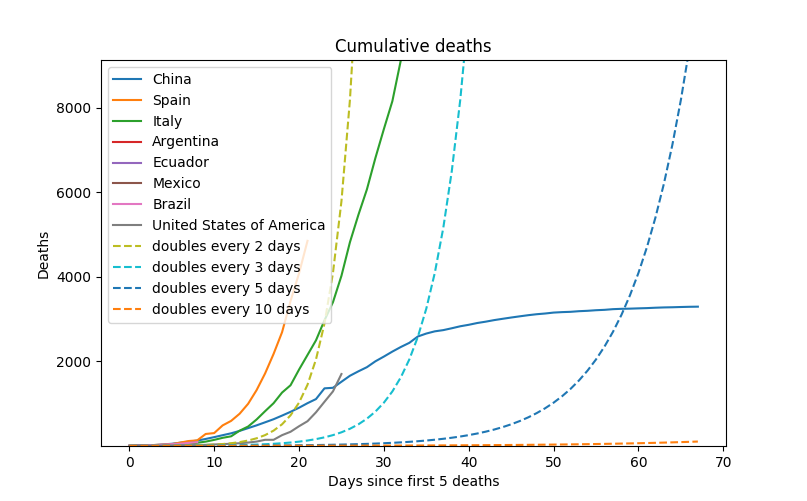
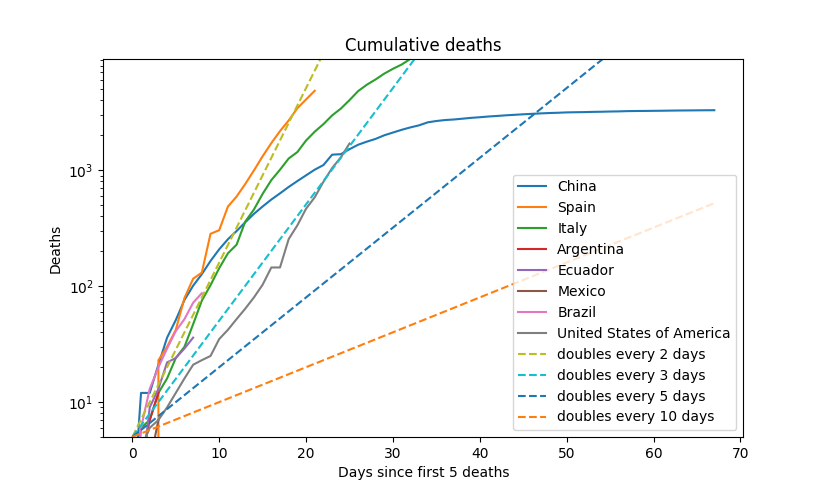
fixed curves using min_deaths

diff --git a/covid19/growth_rate.py b/covid19/growth_rate.py
@@ -34,22 +34,20 @@ for geoid in countries:
 indexes = (2, 3, 5, 10)
 data = list()
 for i in range(max_days):
-    datum = [i] + list(map(lambda x: np.power(2, i / x), indexes))
+    datum = [i] + list(map(lambda x: min_deaths * np.power(2, i / x), indexes))
     data.append(datum)
 
 curves = pd.DataFrame(
             data=data,
             columns=['x'] + list(map(lambda x: f'd{x}', indexes))
         )
-print(curves.iloc[0:10])
-print(curves.iloc[15:25])
 for d in indexes:
     ax.plot(curves['x'], curves[f'd{d}'], linestyle='--', label=f'doubles every {d} days')
 
 
-# ax.set_yscale('log')
+ax.set_yscale('log')
 plt.legend()
-plt.ylim(top=max_deaths, bottom=1)
+plt.ylim(top=max_deaths, bottom=min_deaths)
 plt.ylabel('Deaths')
 plt.xlabel(f'Days since first {min_deaths} deaths')
 plt.title('Cumulative deaths')
